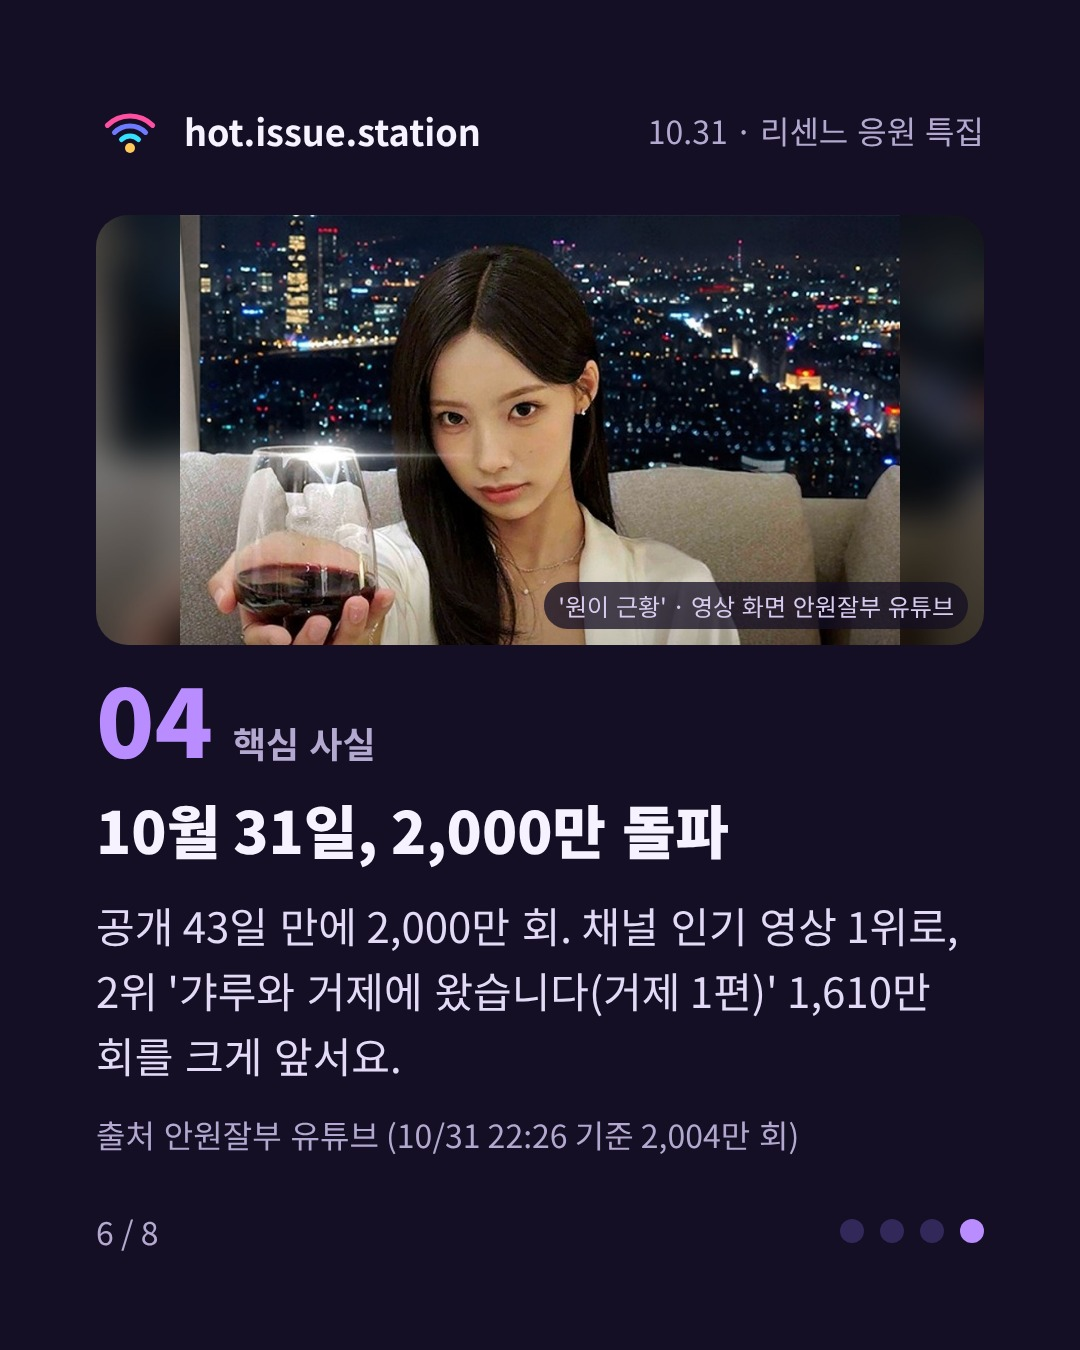
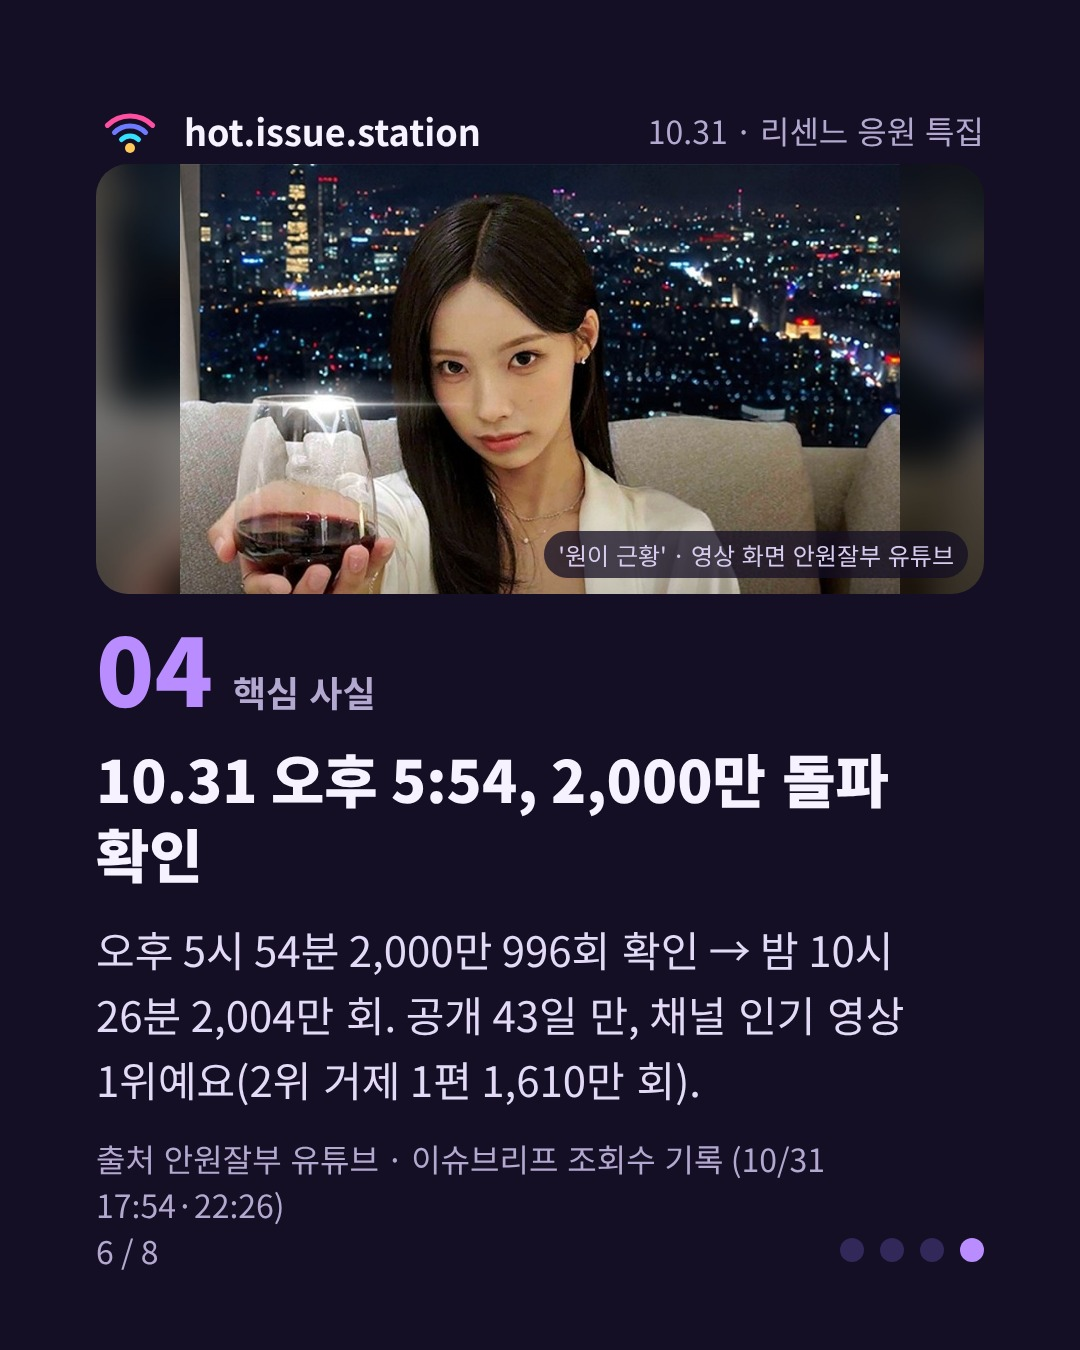
안원잘부 2,000만 카드: 표지에 확인 시각 작게(coverNote), 6번 카드에 확인 시각
Claude-Session: https://claude.ai/code/session_017sdLagfdwDnGFusHKe7jDQ

Changed region(s): [[0.0917, 0.1244, 0.9167, 0.9333], [0.7639, 0.9022, 0.9167, 0.9333], [0.0917, 0.1244, 0.1222, 0.1867]]

diff --git a/scripts/make_post.py b/scripts/make_post.py
@@ -234,7 +234,7 @@ def cover_photo(r, label):
     return frame(f"""<div style="flex:1;display:flex;flex-direction:column;justify-content:flex-end;gap:22px;padding-bottom:24px">
 <div style="align-self:flex-start;padding:10px 26px;border:3px solid {CYAN};border-radius:999px;color:{CYAN};font-size:32px;font-weight:700;background:rgba({BGRGB},.6)">{E(r['category'])}</div>
 {numrow}
-<div style="font-size:72px;font-weight:900;line-height:1.2">{hook}</div></div>""", label, 1, "밀어서 다음 장 →", deco=deco)
+<div style="font-size:72px;font-weight:900;line-height:1.2">{hook}</div>{f'<div style="font-size:28px;color:{MUTED}">{E(r["coverNote"])}</div>' if r.get("coverNote") else ""}</div>""", label, 1, "밀어서 다음 장 →", deco=deco)
 
 
 def cta_html(t):
